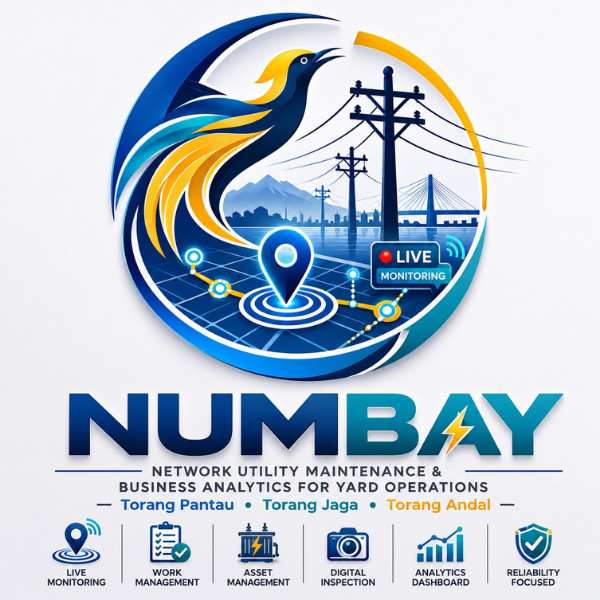
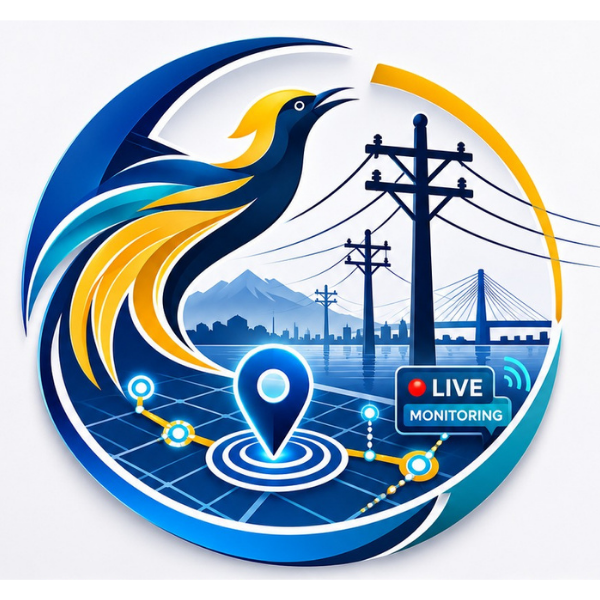
Add files via upload

diff --git a/index.html b/index.html
@@ -755,7 +755,7 @@ td.truncate  { max-width: 160px; overflow: hidden; text-overflow: ellipsis; whit
    FIREBASE VIEWS
 ══════════════════════════════════════ */
 .firebase-view { flex: 1; display: flex; flex-direction: column; min-height: 0; overflow-y: auto; }
-.fb-header { display:flex; align-items:center; justify-content:space-between; padding:4px 0 2px; }
+.fb-header { display:flex; align-items:center; justify-content:space-between; padding:4px 0 2px; flex-shrink:0; }
 #map-petugas { flex: 1; min-height: 0; height: auto !important; width: 100%; border-radius: 0 0 var(--radius) var(--radius); }
 
 /* petugas card in list */
@@ -1243,10 +1243,10 @@ td.truncate  { max-width: 160px; overflow: hidden; text-overflow: ellipsis; whit
       </div>
 
       <!-- Ringkasan tim aktif hari ini -->
-      <div id="absensi-team-summary" style="margin-top:14px;display:flex;gap:8px;overflow-x:auto;padding-bottom:2px;"></div>
+      <div id="absensi-team-summary" style="flex-shrink:0;margin-top:14px;display:flex;flex-wrap:wrap;gap:8px;"></div>
 
       <!-- Per-petugas phase log cards -->
-      <div id="absensi-log-cards" style="margin-top:12px;display:flex;flex-direction:column;gap:12px;">
+      <div id="absensi-log-cards" style="margin-top:12px;display:flex;flex-direction:column;gap:12px;flex-shrink:0;">
         <div style="text-align:center;color:var(--text-muted);padding:40px;font-size:13px">Menunggu data Firebase...</div>
       </div>
       <div class="pagination-bar" id="absensiPagination" style="display:none;margin-top:12px;">
@@ -3818,6 +3818,25 @@ let absensiSizeStable = false;
 
 const FASE_ORDER = ['Standby','Perjalanan','Aktif Bekerja','Selesai'];
 
+// Hitung rentang & durasi jam kerja dari fase "Aktif Bekerja" sampai "Selesai".
+// Kalau belum "Selesai", dihitung sampai sekarang (masih berjalan).
+function hitungJamKerja(p) {
+  const mulai = p.fases['Aktif Bekerja'] && p.fases['Aktif Bekerja'].waktu;
+  if (!mulai) return '';
+  const selesaiTs = p.fases['Selesai'] && p.fases['Selesai'].waktu;
+  const startStr = new Date(mulai).toLocaleTimeString('id-ID',{hour:'2-digit',minute:'2-digit'});
+  const endMs = selesaiTs || Date.now();
+  const durMin = Math.max(0, Math.round((endMs - mulai) / 60000));
+  const jam = Math.floor(durMin / 60), menit = durMin % 60;
+  const durStr = (jam > 0 ? jam + 'j ' : '') + menit + 'm';
+
+  if (selesaiTs) {
+    const endStr = new Date(selesaiTs).toLocaleTimeString('id-ID',{hour:'2-digit',minute:'2-digit'});
+    return `<div style="font-size:11px;color:var(--text-2);margin-top:3px">🕐 Jam Kerja: <b style="font-family:var(--mono)">${startStr}–${endStr}</b> <span style="color:var(--text-3)">(${durStr})</span></div>`;
+  }
+  return `<div style="font-size:11px;color:var(--text-2);margin-top:3px">🕐 Aktif sejak <b style="font-family:var(--mono)">${startStr}</b> <span style="color:var(--text-3)">(berjalan ${durStr})</span></div>`;
+}
+
 function renderAbsensiCardHtml(p) {
   const lastFase = FASE_ORDER.slice().reverse().find(f => p.fases[f]) || 'Standby';
   const lc = FASE_COLORS[lastFase] || FASE_COLORS['Standby'];
@@ -3850,6 +3869,7 @@ function renderAbsensiCardHtml(p) {
       <div style="flex:1">
         <div style="font-size:13px;font-weight:700;color:var(--text-1)">${p.regu}</div>
         <div style="font-size:11px;color:var(--text-2);margin-top:1px">${p.ulp}${p.anggotaHadir && p.anggotaHadir !== '—' ? ' · Anggota: ' + p.anggotaHadir : ''}</div>
+        ${hitungJamKerja(p)}
       </div>
       <span class="badge" style="background:${lc.bg};color:${lc.color};border:1px solid ${lc.border}">${lc.icon} ${lastFase}</span>
     </div>